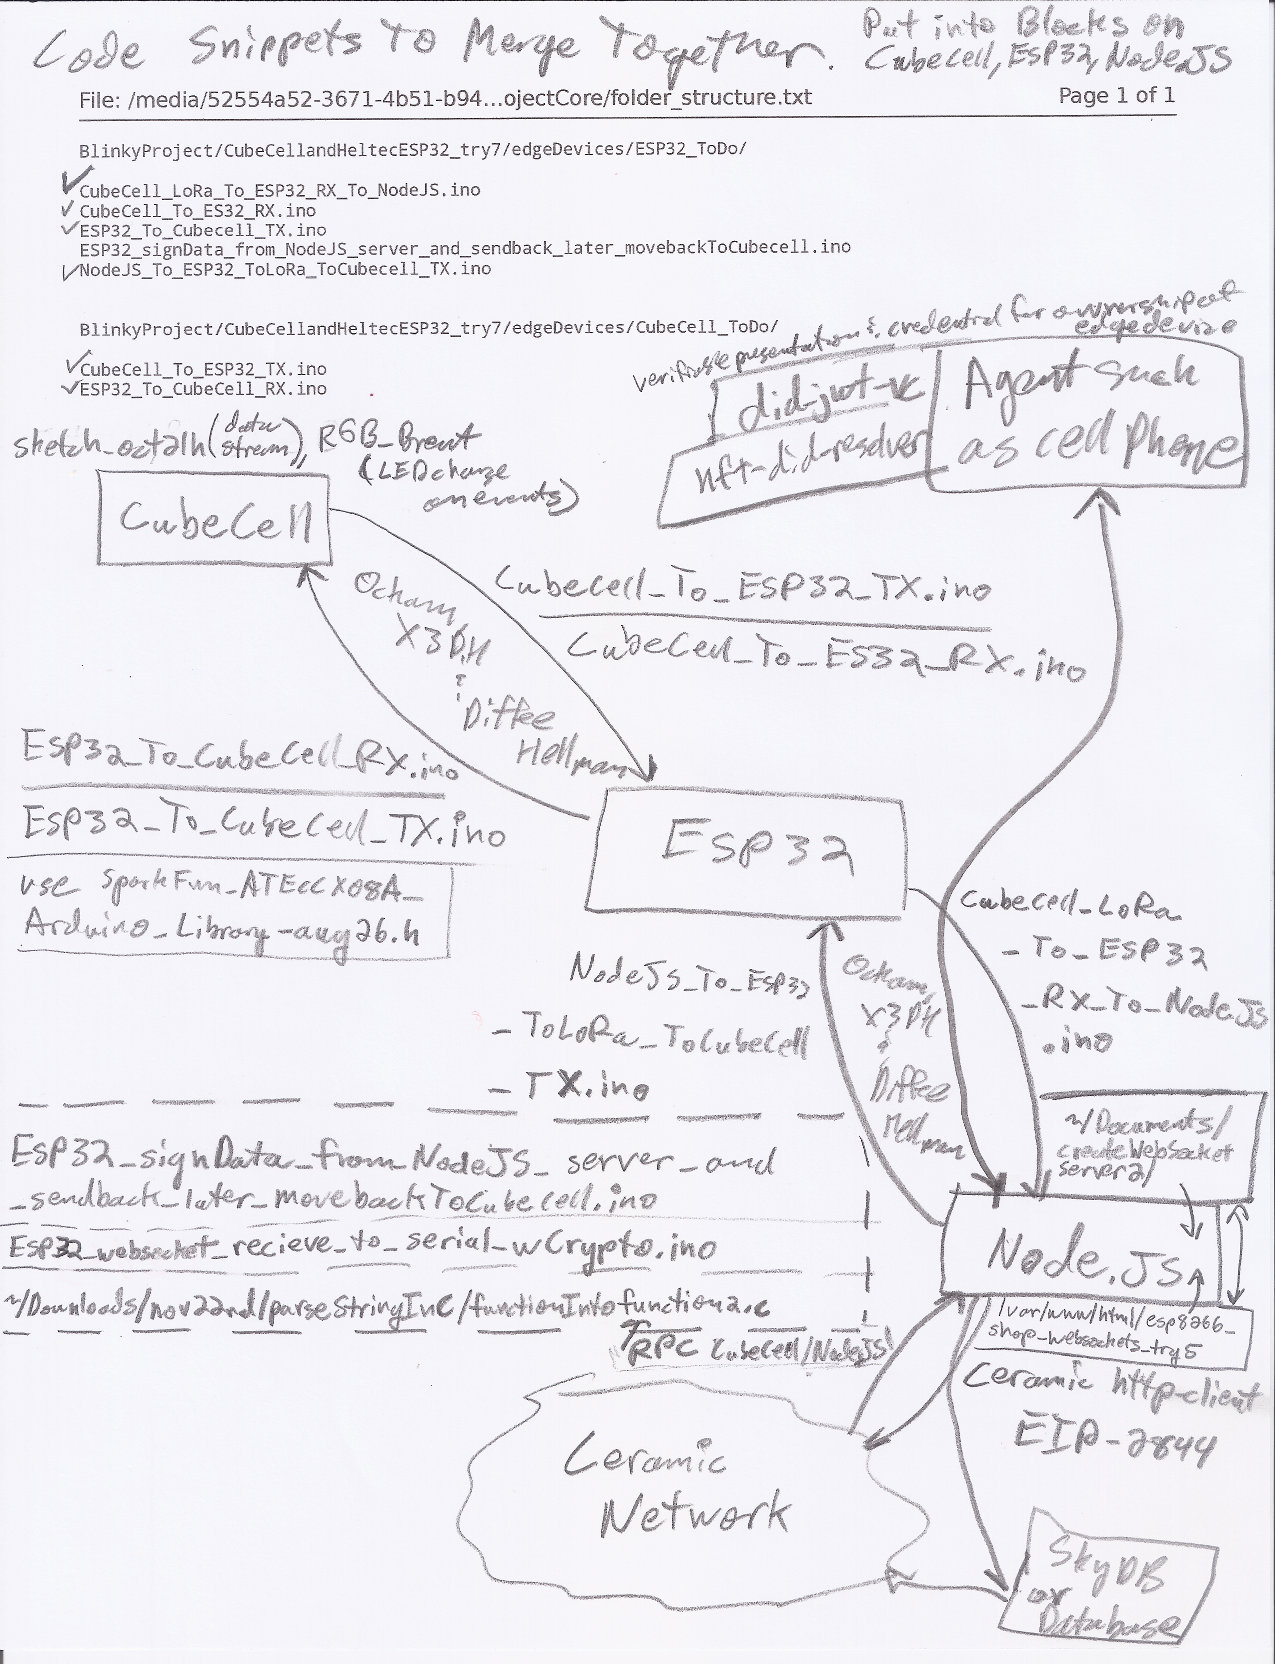
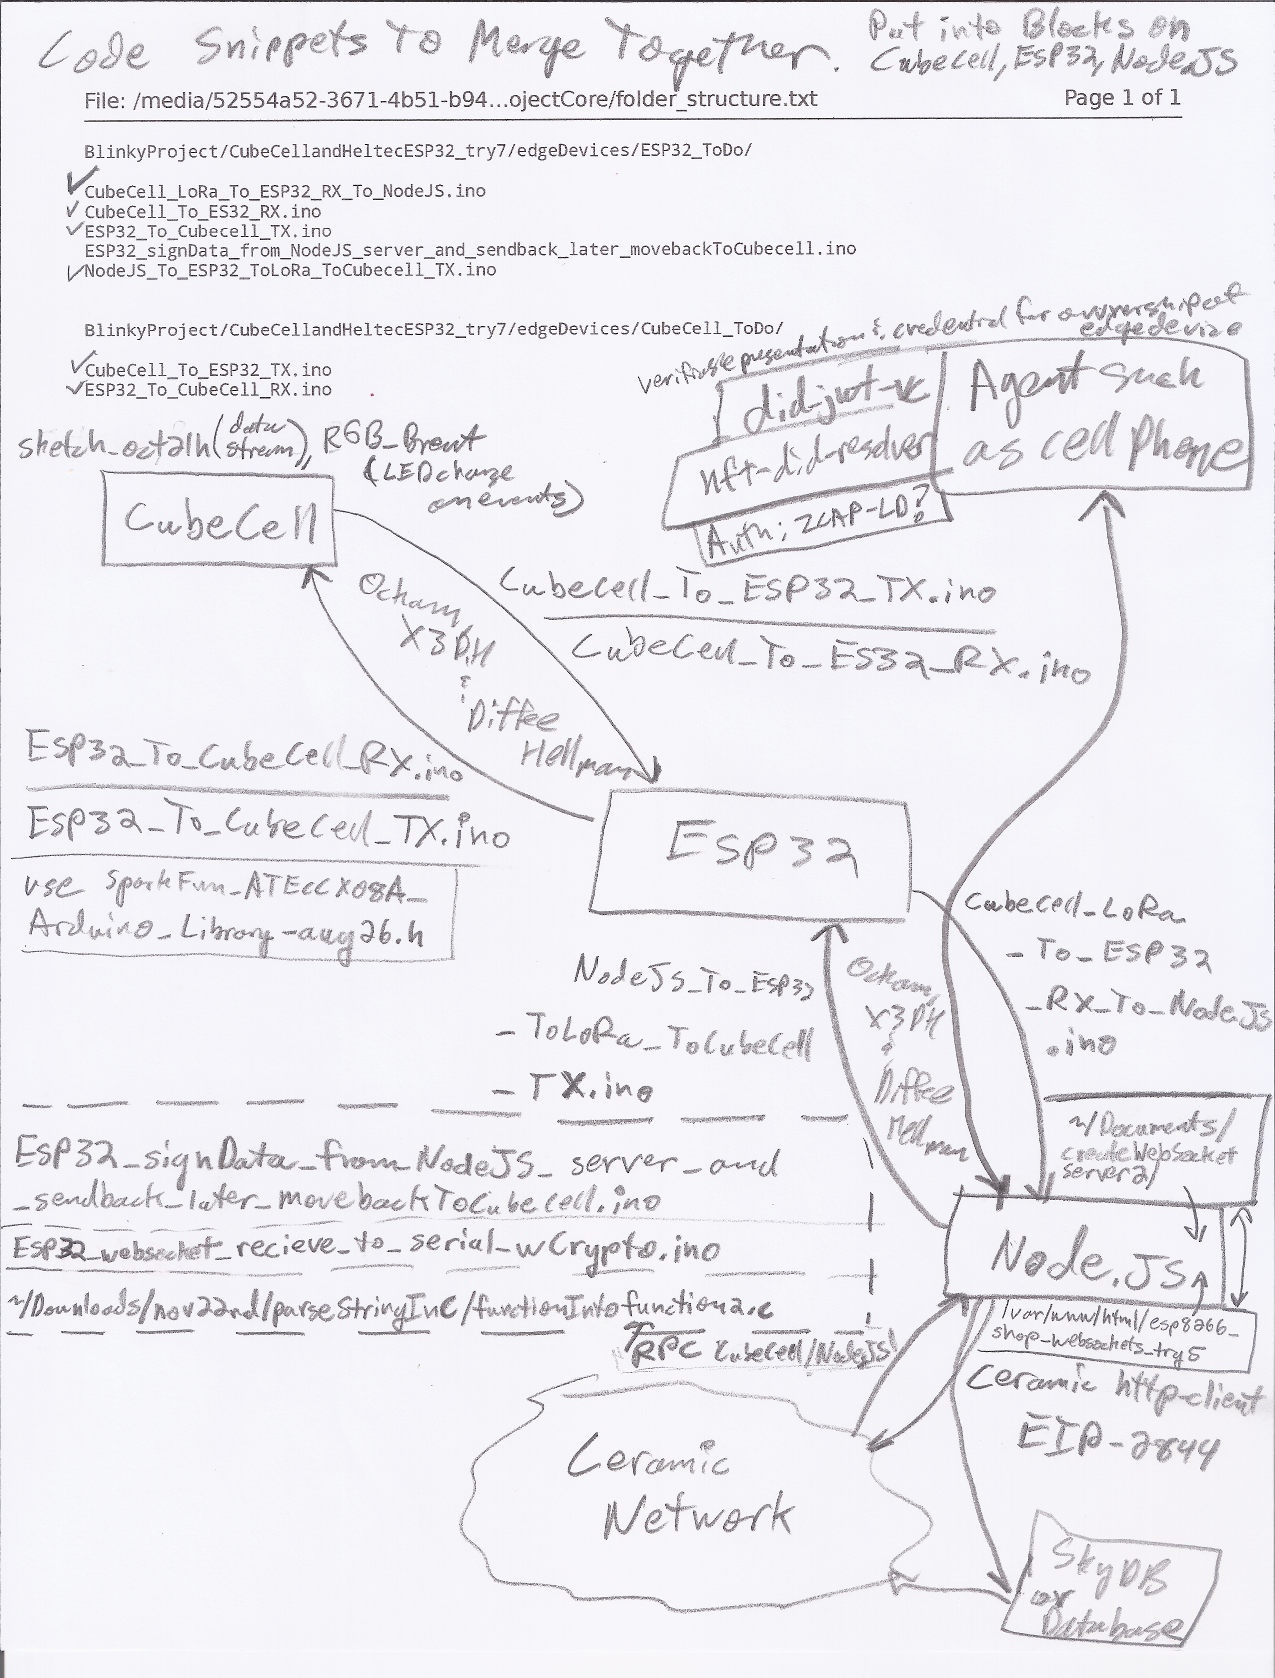
add reference to zcap-ld in readme

Changed region(s): [[0.0, 0.0, 1.0, 1.0], [0.6729, 0.0, 1.0, 0.0625], [0.3671, 0.8438, 0.3976, 0.875]]

diff --git a/README.md b/README.md
@@ -95,6 +95,8 @@ https://www.w3.org/TR/vc-data-model/ (for verifiable credentials). The goal woul
 Geovane Fedrecheski eloquently went into the difficulties of LoRa handling at [IIW32A - session 12E](https://raw.githubusercontent.com/windley/IIW_homepage/gh-pages/assets/proceedings/IIW_32_Book_of_Proceedings_Final%20A%201.pdf).
 To get this working with and Agent talking to the Node.js server, which talks to the ceramic network, consider Bjorn Hamel's excellent talk: [Adventures in Self-Soverign Identity](https://www.youtube.com/watch?v=Uu651GJ5YY0) .
 
+For Authorization, consider looking at: [Authorization Capabilities for Linked Data v0.3](https://w3c-ccg.github.io/zcap-ld/). Thank you to the W3C CCG Mailing List.
+
 https://github.com/ceramicnetwork/nft-did-resolver (for NFTs) [It seems you would use key:did with 3ID, and 3ID with NFT]
 seeAlso: [3ID method CIP-79](https://github.com/ceramicnetwork/CIP/blob/main/CIPs/CIP-79/CIP-79.md)
 
